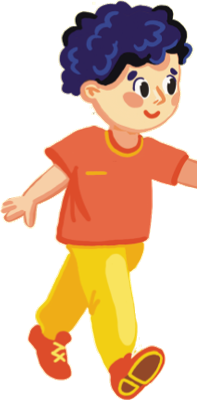
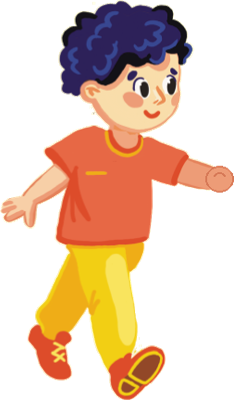
Skákání: skutečný povrch planety pod nohama, bez ikony nad sloupcem, kluk s celou rukou, panel jako dlaždice; karta bez tmavého orámování

diff --git a/src/app/prvouka/PrvoukaSpaceModel.tsx b/src/app/prvouka/PrvoukaSpaceModel.tsx
@@ -659,7 +659,7 @@ function SolarModel({ settings }: { settings?: Record<string, any> }) {
                 type="button"
                 onClick={() => { setCompare(false); setJumpBodies([selected as JumpBody]); setJumpAction(null); setJump(true); }}
                 className="relative w-full overflow-hidden rounded-2xl h-24 p-3 text-left text-white hover:-translate-y-0.5 transition-transform"
-                style={{ background: 'linear-gradient(90deg, #f0a12c 0%, #b8461a 100%)', outline: jump ? '3px solid #0f1d4d' : 'none', outlineOffset: 2 }}
+                style={{ background: 'linear-gradient(90deg, #f0a12c 0%, #b8461a 100%)' }}
               >
                 <img src={`${import.meta.env.BASE_URL}prvouka/ill/skok-kluk.png`} alt="" className="absolute right-4 -top-1 h-24 object-contain" style={{ transform: 'translateY(-6px)' }} />
                 <span className="absolute left-3 bottom-2.5">
@@ -693,7 +693,7 @@ function SolarModel({ settings }: { settings?: Record<string, any> }) {
                 type="button"
                 onClick={() => { setCompare(false); setJumpBodies([selected as JumpBody]); setJumpAction(null); setJump(true); }}
                 className="relative w-full overflow-hidden rounded-2xl h-24 p-3 text-left text-white hover:-translate-y-0.5 transition-transform"
-                style={{ background: 'linear-gradient(90deg, #f0a12c 0%, #b8461a 100%)', outline: jump ? '3px solid #0f1d4d' : 'none', outlineOffset: 2 }}
+                style={{ background: 'linear-gradient(90deg, #f0a12c 0%, #b8461a 100%)' }}
               >
                 <img src={`${import.meta.env.BASE_URL}prvouka/ill/skok-kluk.png`} alt="" className="absolute right-4 -top-1 h-24 object-contain" style={{ transform: 'translateY(-6px)' }} />
                 <span className="absolute left-3 bottom-2.5">
@@ -704,32 +704,44 @@ function SolarModel({ settings }: { settings?: Record<string, any> }) {
               </div>
             </div>
           ) : null}
-          {jump ? (
-            <>
-              <p className="text-base leading-relaxed text-[#4e5871]">{JUMP_TEXT}</p>
-                <div className="rounded-2xl bg-[#eef1f8] p-3">
-                  <label className="flex items-center justify-between gap-3 text-sm font-bold text-[#0f1d4d]">
-                    <span>Kolik vážíš na Zemi?</span>
-                    <span className="tabular-nums">{weight} kg</span>
-                  </label>
-                  <input type="range" min={15} max={60} value={weight} onChange={(e) => setWeight(Number(e.target.value))} className="w-full mt-2 accent-[#f0a12c]" aria-label="Kolik vážíš na Zemi" />
-                  <div className="flex flex-col gap-1.5 mt-2">
-                    {(['zeme', ...jumpBodies] as JumpBody[]).map((id) => (
-                      <div key={id} className="flex items-center gap-3 rounded-xl bg-white px-3 py-1.5">
-                        <img src={thumbs[id as SolarBodyId] ?? planetIcon(id as PlanetKey)} alt="" className="w-7 h-7 object-contain flex-shrink-0" />
-                        <span className="flex-1 min-w-0 font-bold" style={{ color: BODY_COLOR[id as SolarBodyId] }}>{bodyName(id as SolarBodyId)}</span>
-                        <span className="text-right leading-tight">
-                          <span className="block font-bold tabular-nums text-[#0f1d4d]">váha ukáže {formatKg(weight * PULL[id])}</span>
-                          <span className="block text-xs text-[#56628a]">vyskočíš {formatMeters(jumpHeight(id))}</span>
-                        </span>
-                      </div>
+          {jump ? (() => {
+            const there = jumpBodies[0];
+            // Dvě dlaždice vedle sebe (Země / tahle planeta) ve stylu dlaždic Typ / Oběh / Velikost.
+            const tile = (id: JumpBody) => (
+              <div key={id} className="rounded-2xl bg-[#f4f6fb] p-3 flex flex-col items-center text-center gap-1">
+                <img src={thumbs[id as SolarBodyId] ?? planetIcon(id as PlanetKey)} alt="" className="w-10 h-10 object-contain" />
+                <span className="text-sm font-bold" style={{ color: BODY_COLOR[id as SolarBodyId] }}>{bodyName(id as SolarBodyId)}</span>
+                <span className="mt-1 text-[11px] font-bold uppercase tracking-wider text-[#9aa6d1]">váha ukáže</span>
+                <span className="text-2xl font-bold tabular-nums text-[#0f1d4d] leading-none">{formatKg(weight * PULL[id])}</span>
+                <span className="mt-2 text-[11px] font-bold uppercase tracking-wider text-[#9aa6d1]">vyskočíš</span>
+                <span className="text-2xl font-bold tabular-nums text-[#0f1d4d] leading-none">{formatMeters(jumpHeight(id))}</span>
+              </div>
+            );
+            return (
+              <>
+                <p className="text-base leading-relaxed text-[#4e5871]">{PULL[there] < 1 ? `${bodyName(there as SolarBodyId)} tě přitahuje méně než Země. Vyskočíš výš, míček padá pomaleji a váha by ukázala méně.` : PULL[there] > 1.12 ? `${bodyName(there as SolarBodyId)} tě přitahuje víc než Země. Vyskočíš níž, míček padá rychleji a váha by ukázala víc.` : `${bodyName(there as SolarBodyId)} tě přitahuje skoro stejně jako Země.`}</p>
+                <div className="grid grid-cols-2 gap-2">{tile('zeme')}{tile(there)}</div>
+                <div>
+                  <p className="text-sm font-bold text-[#56628a] mb-2">Kolik vážíš na Zemi?</p>
+                  <div className="flex flex-wrap gap-1.5">
+                    {[20, 25, 30, 35, 40, 50].map((kg) => (
+                      <button
+                        key={kg}
+                        type="button"
+                        onClick={() => setWeight(kg)}
+                        aria-pressed={weight === kg}
+                        className="h-9 px-3 rounded-full text-sm font-bold transition-colors"
+                        style={weight === kg ? { background: '#f0a12c', color: '#2a1700' } : { background: '#f4f6fb', color: '#0f1d4d' }}
+                      >
+                        {kg} kg
+                      </button>
                     ))}
                   </div>
-                  <p className="text-xs text-[#56628a] mt-2 leading-snug">Ty se nezměníš. Jen tě {jumpBodies.some((b) => PULL[b] > 1.2) ? 'velká planeta přitahuje víc a malé těleso méně' : 'menší těleso přitahuje méně'} – proto by váha ukázala jiné číslo.</p>
                 </div>
-                {jumpBodies.some((b) => GAS.includes(b)) ? <p className="text-xs text-[#56628a] leading-snug">{bodyName(jumpBodies.find((b) => GAS.includes(b)) as SolarBodyId)} nemá pevný povrch, na který by se dalo stoupnout. Jako bychom stáli na jeho mracích.</p> : null}
-            </>
-          ) : null}
+                <p className="text-sm leading-snug text-[#56628a]">Ty se nezměníš – jen tě {bodyName(there as SolarBodyId)} přitahuje jinak než Země.{GAS.includes(there) ? ` Pevný povrch ale nemá, jako bychom stáli na jeho mracích.` : ''}</p>
+              </>
+            );
+          })() : null}
           {selected === 'zeme' ? (
             <div className={dayNight ? 'rounded-2xl p-4 bg-[#eef1f8]' : 'pt-1'}>
               {dayNight ? (

diff --git a/src/app/prvouka/PlanetJump.tsx b/src/app/prvouka/PlanetJump.tsx
@@ -1,5 +1,17 @@
 import React, { useEffect, useRef, useState } from 'react';
 import type { SolarBodyId } from './solar-3d';
+import { moonTexture, planetTexture } from './space-engine';
+
+/** Povrch pod nohama ze stejné textury jako planeta v modelu (výřez ze středu, ať není vidět okraj koule). */
+const surfCache = new Map<string, string>();
+function surface(b: JumpBody): string {
+  const hit = surfCache.get(b); if (hit) return hit;
+  const src = b === 'mesic' ? moonTexture() : planetTexture(b as any, 512);
+  const c = document.createElement('canvas'); c.width = 512; c.height = 192;
+  const ctx = c.getContext('2d')!;
+  ctx.drawImage(src, src.width * 0.18, src.height * 0.36, src.width * 0.64, src.height * 0.28, 0, 0, 512, 192);
+  const url = c.toDataURL(); surfCache.set(b, url); return url;
+}
 
 /**
  * Skákání na planetách (Model Sluneční soustavy → Vyzkoušej si).
@@ -104,8 +116,7 @@ export function JumpStage({ bodies, names, thumbs, action, onDone }: {
             {i > 0 ? <div className="absolute top-[8%] bottom-[8%] left-0 w-px" style={{ background: 'rgba(255,255,255,.12)' }} /> : null}
             {/* hlavička sloupce */}
             <div className="absolute left-0 right-0 top-3 flex flex-col items-center gap-1 text-white">
-              {thumbs[b as SolarBodyId] ? <img src={thumbs[b as SolarBodyId]} alt="" className="w-10 h-10 object-contain" /> : null}
-              <span className="text-base md:text-lg font-bold">{names[b]}</span>
+                            <span className="text-base md:text-lg font-bold">{names[b]}</span>
             </div>
             {/* značka nejvyššího bodu skoku */}
             {action?.kind !== 'micek' ? (
@@ -121,7 +132,7 @@ export function JumpStage({ bodies, names, thumbs, action, onDone }: {
             {/* postavička */}
             <Kid x={cx - colW * i} y={groundY - up * pxPerM} size={kid} />
             {/* povrch */}
-            <div className="absolute left-0 right-0 bottom-0" style={{ top: groundY, background: GAS.includes(b) ? `linear-gradient(180deg, ${GROUND[b]}cc, ${GROUND[b]}33)` : GROUND[b], borderTop: `3px solid ${GROUND[b]}` }} />
+            <div className="absolute left-0 right-0 bottom-0" style={{ top: groundY, backgroundColor: GROUND[b], backgroundImage: `${GAS.includes(b) ? 'linear-gradient(180deg, rgba(255,255,255,.15), rgba(6,10,28,.55)), ' : 'linear-gradient(180deg, rgba(255,255,255,.12), rgba(0,0,0,.25)), '}url(${surface(b)})`, backgroundSize: 'cover', backgroundPosition: 'center', boxShadow: 'inset 0 6px 10px rgba(0,0,0,.25)' }} />
             <span className="absolute left-0 right-0 text-center text-xs md:text-sm font-bold text-white/85" style={{ top: groundY + 10 }}>
               {GAS.includes(b) ? 'nemá pevný povrch – stojíme na mracích' : ''}
             </span>
@@ -140,6 +151,6 @@ function duration(kind: 'skok' | 'micek', b: JumpBody) {
 /** Dítě z ilustrací Vividbooks (kluk z matematiky 1. ročníku) – nohy na čáře y. */
 const KID_SRC = `${import.meta.env.BASE_URL}prvouka/ill/skok-kluk.png`;
 function Kid({ x, y, size }: { x: number; y: number; size: number }) {
-  const hgt = size * 2, wid = hgt * (197 / 400);
+  const hgt = size * 2, wid = hgt * (234 / 400);
   return <img src={KID_SRC} alt="" className="absolute select-none pointer-events-none" draggable={false} style={{ left: x - wid / 2, top: y - hgt, width: wid, height: hgt }} />;
 }

diff --git a/src/app/prvouka/space-engine.ts b/src/app/prvouka/space-engine.ts
@@ -107,7 +107,7 @@ function bands(ctx: CanvasRenderingContext2D, S: number, rnd: () => number, colo
 
 const texCache = new Map<string, HTMLCanvasElement>();
 
-function planetTexture(id: PlanetKey, S: number): HTMLCanvasElement {
+export function planetTexture(id: PlanetKey, S: number): HTMLCanvasElement {
   const key = id + S;
   const cached = texCache.get(key);
   if (cached) return cached;
@@ -293,7 +293,7 @@ export function todayMoonDay(now = Date.now()) {
 }
 
 let moonTex: HTMLCanvasElement | null = null;
-function moonTexture(): HTMLCanvasElement {
+export function moonTexture(): HTMLCanvasElement {
   if (moonTex) return moonTex;
   const S = 256;
   const c = document.createElement('canvas');
